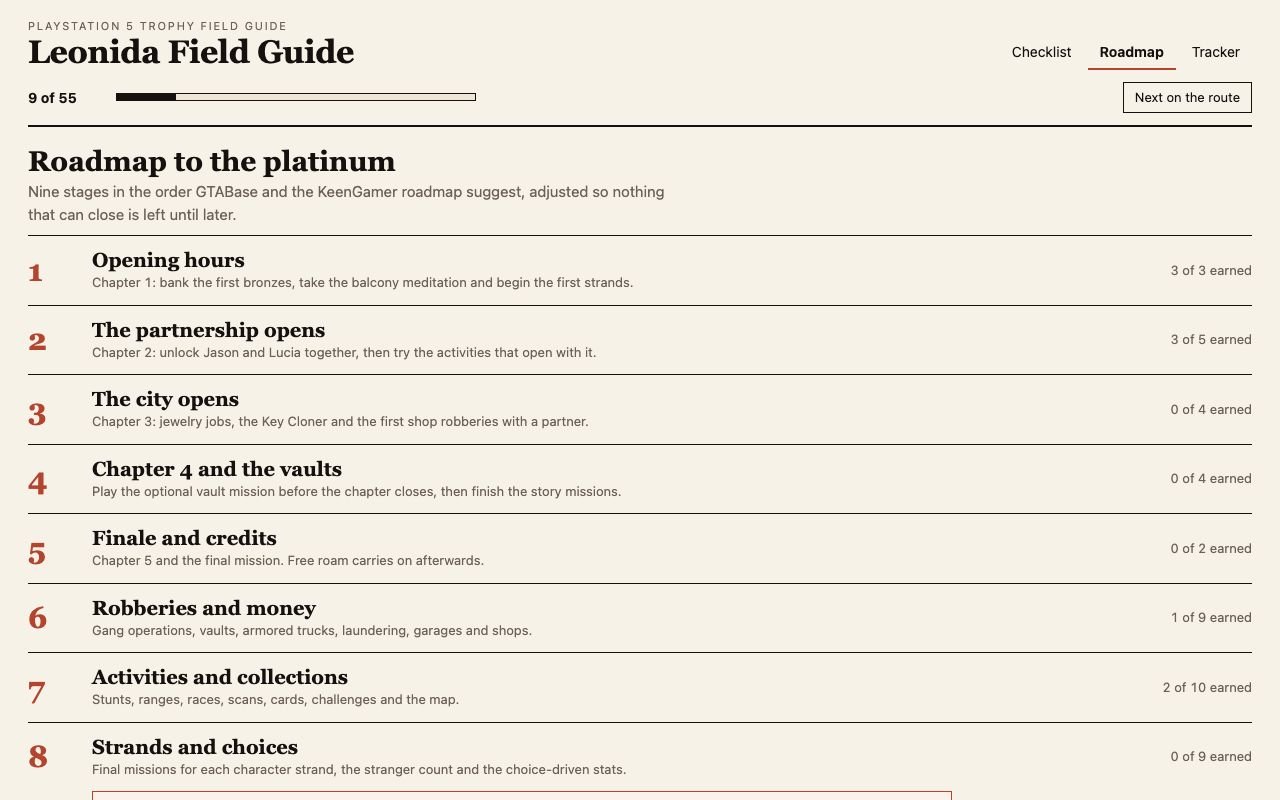
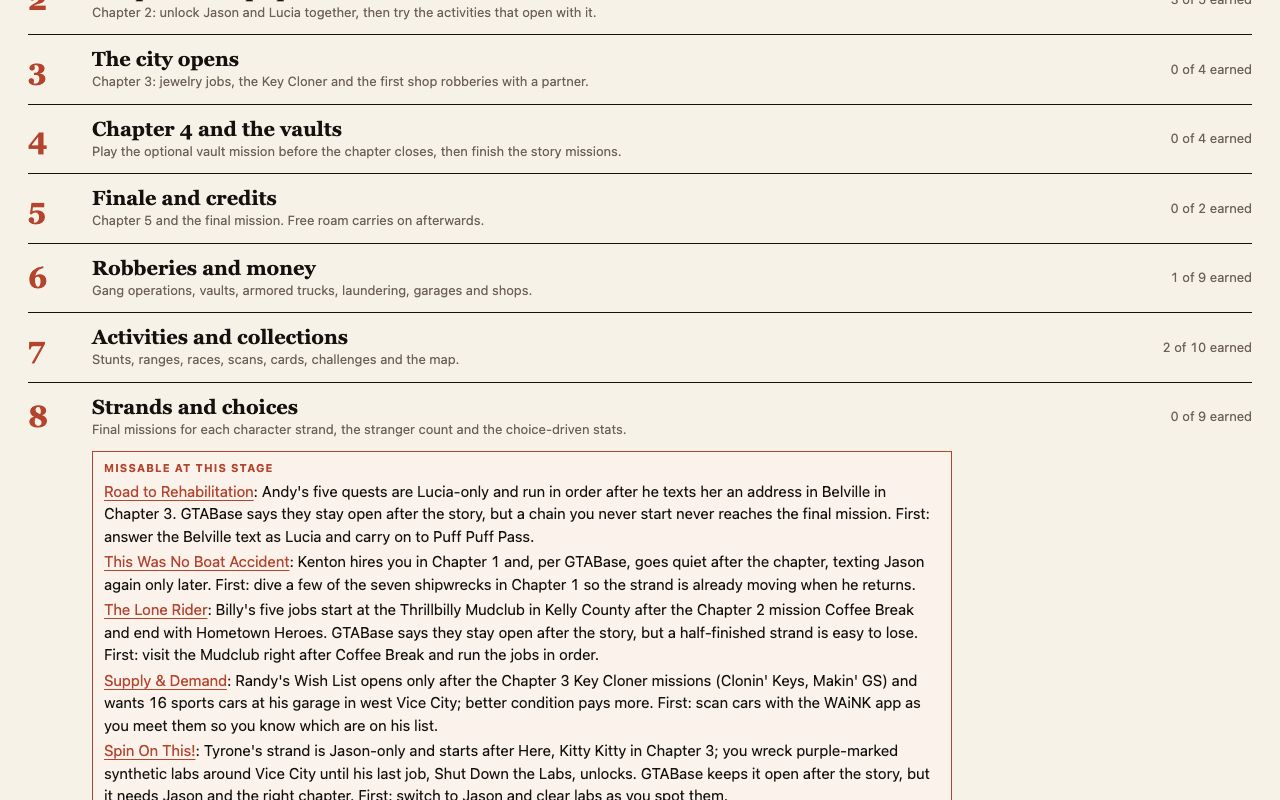
Rewrite README and AGENTS, re-shoot screenshots from the rewritten app

diff --git a/README.md b/README.md
@@ -1,17 +1,62 @@
 # Leonida Field Guide
 
-An offline, printed-field-guide-style companion for the 55 PlayStation 5 trophies of Grand Theft Auto VI. It pairs a filterable checklist with a nine-stage roadmap, a missable-aware tracker and a hand-written, cited guide for every trophy. Progress stays in your browser.
-
-[![make.fun · gta6-trophy-guide-01](https://make.fun/badge/gta6-trophy-guide-01.svg)](https://make.fun/bounty/gta6-trophy-guide-01)
-[![rank](https://make.fun/badge/gta6-trophy-guide-01/demeter-codes/gta6-trophy-guide/rank.svg)](https://make.fun/bounty/gta6-trophy-guide-01/leaderboard)
+[![make.fun · gta6-trophy-guide-01](https://make.fun/badge/gta6-trophy-guide-01.svg)](https://make.fun/bounty/gta6-trophy-guide-01?utm_source=github&utm_medium=readme&utm_campaign=gta6-trophy-guide-01)
+[![rank](https://make.fun/badge/gta6-trophy-guide-01/demeter-codes/gta6-trophy-guide/rank.svg)](https://make.fun/bounty/gta6-trophy-guide-01/leaderboard?utm_source=github&utm_medium=readme&utm_campaign=gta6-trophy-guide-01)
 [![reward](https://make.fun/badge/gta6-trophy-guide-01/demeter-codes/gta6-trophy-guide/reward.svg)](https://make.fun/bounty/gta6-trophy-guide-01)
 
-## Run it
+An offline guide and tracker for the 55 PlayStation 5 trophies of Grand Theft Auto VI, set like a printed field
+guide: paper background, ink text, one rust accent, serif headings. It is plain HTML, CSS and JavaScript with no
+build step and nothing fetched at run time.
 
-```sh
-node serve.ts
+## What is in it
+
+- **Checklist**: all 55 trophies with the official name, description and grade. Search, kind filter (including
+  "Missable"), grade filter, ordering by roadmap stage or grade, a remaining-only switch and a progress bar. A
+  spoiler guard shows unearned story trophies as "Hidden trophy".
+- **Roadmap**: nine stages toward the platinum, each with a short brief, its trophies, an earned count and a
+  "Missable at this stage" callout where one applies.
+- **Tracker**: earned total, planning hours left, missables remaining, breakdowns by grade and stage, JSON export
+  and import, and reset.
+- **Detail panel**: a guide, numbered steps, the missable warning and links to the sources behind the claims.
+- Eleven trophies are flagged missable: the six character strands, the two partnership actions, the two
+  choice-driven trophies and the chapter event. Each carries a note on what closes it and what to do first.
+
+## Using it
+
+Serve the `app/` folder and open the page:
+
+```
+node serve.ts            # http://localhost:8080
+node serve.ts --port 8099
 ```
 
-Then open http://localhost:8080.
+Progress is stored in `localStorage` under `leonida-field-guide:v1`. Export writes
+`leonida-trophy-progress.json`; import reads it back. Links go straight to a view:
 
-[make.fun bounty page](https://make.fun/bounty/gta6-trophy-guide-01)
+| Hash | Shows |
+| --- | --- |
+| `#trophy=28` | a trophy's guide beside the checklist |
+| `#view=roadmap` (with `&stage=8`) | the roadmap, optionally with a stage open |
+| `#view=tracker` | the tracker |
+| `&kind=story`, `&grade=gold`, `&spoilers=on` | filters and the spoiler guard |
+
+Keys: `/` focuses search, `n` jumps to the next unearned trophy on the route.
+
+## Data and sources
+
+`app/data/trophies.json` holds the 55 trophies. Names, descriptions and grades are the official ones. Each guide
+names where its facts come from: GTABase's trophy list and guide, the KeenGamer platinum roadmap, the official list
+on Exophase and the GTAside list. Where those sources are thin, the guide says so and leaves the step until after
+the story.
+
+## Checks
+
+`main.ts` validates the data before writing anything: it fails if there are not 55 trophies, or if any has a
+blank guide, no https source or an unknown grade. Then it copies `app/` and `screenshots/` to the output folder
+and writes `dossier.json`.
+
+```
+mkdir -p out && MAKEFUN_OUTPUT_DIR=out node main.ts
+```
+
+The screenshots in `screenshots/` are real 1280x800 captures of the running app, saved as JPEG.

diff --git a/AGENTS.md b/AGENTS.md
@@ -1,31 +1,30 @@
 # gta6-trophy-guide
 
-Entry for make.fun's bounty "Build the best GTA 6 trophy guide" (`gta6-trophy-guide-01`).
+Entry for make.fun's bounty "Build the best GTA 6 trophy guide" (`gta6-trophy-guide-01`). The kit lives at
+`../gta6-trophy-guide-01-kit`; its `RULES.txt` is the spec.
 
-## Rules of engagement
+## Ground rules
 
-- Never run `makefun login`; do not create another repository; never rewrite git history; do not run `makefun submit`.
-- The kit is at `../gta6-trophy-guide-01-kit`. `RULES.txt` there is the authoritative spec.
-- `vendor/makefun-frontend.ts` must stay byte for byte unchanged.
+- Never run `makefun login`, `record`, `submit` or `init`. Never rewrite history.
+- Leave `vendor/makefun-frontend.ts` and `LICENSE` untouched.
+- Nothing the app loads may come from the network. Links a reader clicks are fine.
+- Keep official `name`, `description`, `grade` and `hidden` values exactly as they are in `app/data/trophies.json`.
+- Never invent a location, collectible spot or mission name; cite the source inline or mark the step "after the
+  story".
 
-## Layout
+## Check before committing
 
-- `app/index.html`, `app/style.css`, `app/app.js`: the static, offline app (no build step, nothing loaded from the network).
-- `app/data/trophies.json`: 55 trophies with official name, description and grade, plus kind, missable flag and note, count, chapter, roadmap stage, guide, steps, sources and hour estimates.
-- `main.ts`: validates the data (55 trophies, non-blank guide, a source, known grade), copies `app/` and `screenshots/` to the output directory and writes `dossier.json` via the vendored library.
-- `serve.ts`: loopback static server for `app/` on http://localhost:8080.
-- `screenshots/` and `shots.json`: four 1280x800 JPEG (q80, under 256 KiB) renders and the paths they are taken from.
-
-## Check and build
-
-- `node serve.ts`
-- `node ../gta6-trophy-guide-01-kit/cli/makefun.mjs check --kit ../gta6-trophy-guide-01-kit --repo .`
-- `mkdir -p out && MAKEFUN_OUTPUT_DIR=out node main.ts` writes `out/dossier.json` (`out/` is git-ignored).
+```
+mkdir -p out && MAKEFUN_OUTPUT_DIR=out node main.ts
+node ../gta6-trophy-guide-01-kit/cli/makefun.mjs check --kit ../gta6-trophy-guide-01-kit --repo .
+```
 
 ## Build notes
 
-- Views: checklist (search, kind, grade, arrange by stage or grade, remaining only, progress meter), nine-stage roadmap with missable callouts, tracker (progress, hours left, missables, per-grade breakdown, JSON export/import, reset) and a detail panel with guide, steps, warning and source links.
-- Spoiler guard hides unearned story trophies as "Hidden trophy". Deep links: `#trophy=<id>`, `#view=roadmap|tracker`, plus `kind`, `grade`, `stage`, `spoilers` parameters (used by `shots.json`).
-- Progress is in `localStorage` under `leonida-field-guide:v1`.
-- Data: 11 missables flagged with what closes them; 28 hidden on PSN. Kinds: activities 28, story 13, exploration 6, collectibles 5, combat 3 (none tagged online). Sources: Exophase, GTAside, GTABase, KeenGamer. Hour figures are planning estimates split from the roughly 200 hours those sources quote.
-- Look: ink `#14110f` on paper `#f7f2e8`, accent `#b4442e`, system serif headings, no emoji or game art.
+A static field guide under `app/`: `index.html`, `style.css`, `app.js` and `data/trophies.json`. The page has three
+views, Checklist, Roadmap and Tracker, with a detail panel beside the checklist. All 55 trophies carry an
+original guide of 120 to 180 words, two to four steps, one to three sources and, for the eleven missables, a
+`missableNote`. Progress lives in `localStorage` under `leonida-field-guide:v1` as `{v, earned, guard}`, and the
+hash holds the view (`#trophy=`, `#view=`, plus `kind`, `grade`, `stage`, `spoilers`). The spoiler guard masks every
+unearned story trophy. `main.ts` validates the data and then writes the dossier; `serve.ts` is a loopback static
+server. Screenshots are 1280x800 JPEG renders of the running app, listed in `shots.json`.
